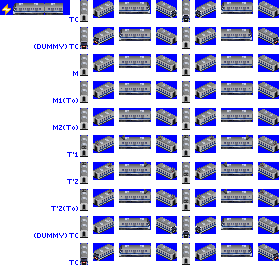
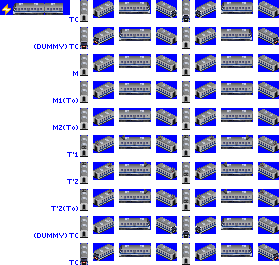
2026.03.22 / 1.68 / #720, #721

diff --git a/README.md b/README.md
@@ -9,9 +9,11 @@
 [Github release 페이지](https://github.com/DTS-NewGRF/DTS_World/releases)와 인게임 온라인 컨텐츠에서 다운받을 수 있습니다.<br>
 
 ## 최근 등록 릴리즈
-[1.68] 2026.03.18 <br>
+[1.68] 2026.03.22 <br>
 [이슈작업]
 * [열차추가] JR 서일본 125계 전동차 (32bpp) ([#719](https://github.com/DTS-NewGRF/DTS_World/issues/719))(2026.03.18)
+* [열차변경] EMU 900 그래픽 변경 ([#720](https://github.com/DTS-NewGRF/DTS_World/issues/720))(2026.03.22)
+* [열차변경][도색추가] JR 서일본 125계 팬터그래프 2개 장착 차량 ([#721](https://github.com/DTS-NewGRF/DTS_World/issues/721))(2026.03.22)
 
 ## 인게임 등록
 [1.67] 2026.03.16 <br>

diff --git a/docs/changelog.md b/docs/changelog.md
@@ -1,6 +1,8 @@
-[1.68] 2026.03.18
+[1.68] 2026.03.22
 [추가]
 - 서일본 125계 전동차 (2026.03.18)
+[변경]
+- 타이완철도윤한회사 EMU900 그래픽 변경 (2026.03.22)
 
 [1.67] 2026.03.16
 [추가]
